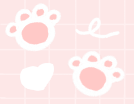
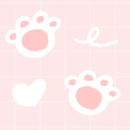
Add kira/nana, replace shop background

diff --git a/game.js b/game.js
@@ -82,6 +82,8 @@ function getRandomCustomerImage() {
     "xin",
     "grace",
     "mable",
+    "nana",
+    "kira",
     //Add more as needed
   ];
   return customerImages[Math.floor(Math.random() * customerImages.length)];
@@ -104,6 +106,8 @@ function animateCustomer() {
     "xin",
     "grace",
     "mable",
+    "nana",
+    "kira",
     //Add more as needed
   ];
 
